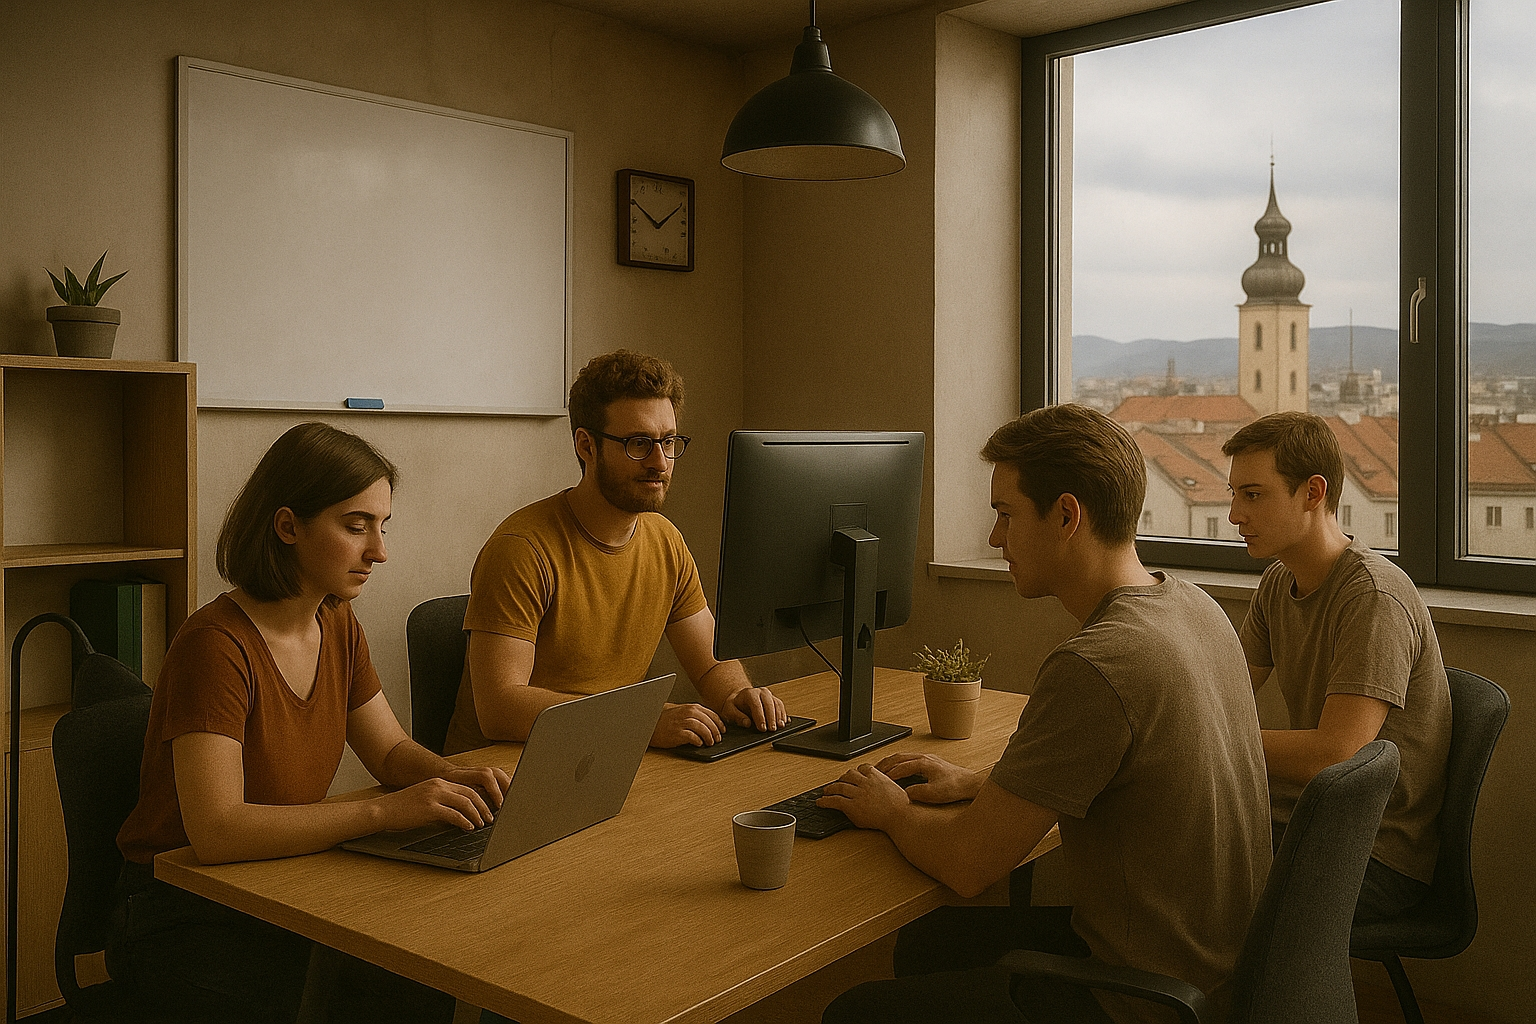
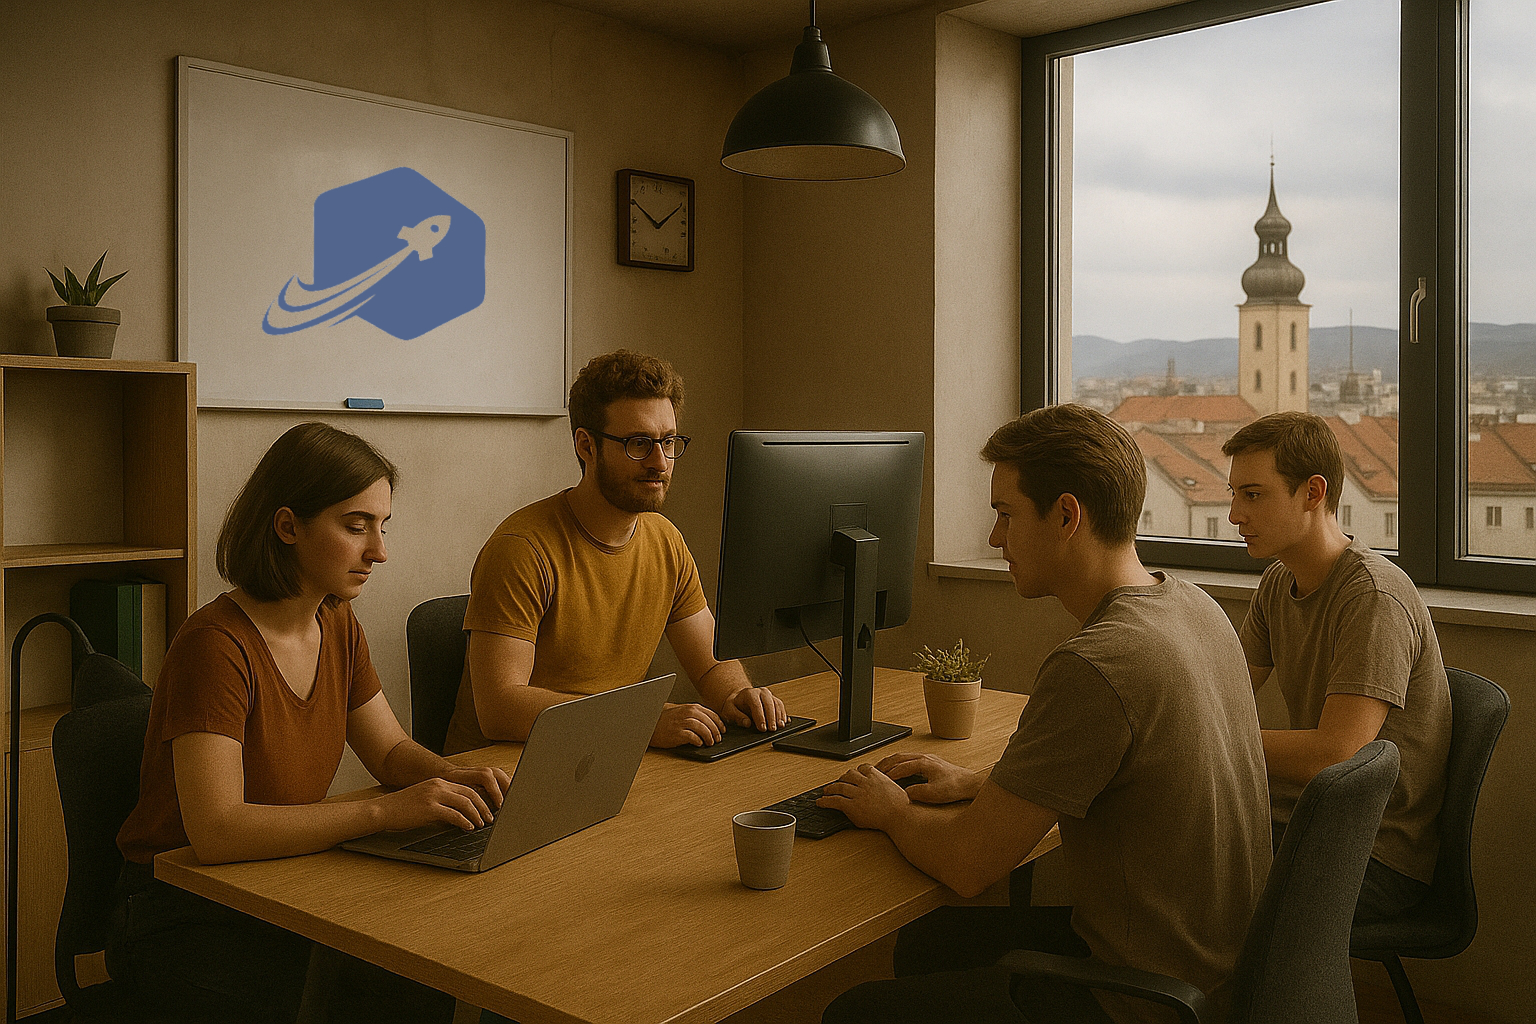
✏ Update content

Changed region(s): [[0.1562, 0.1562, 0.3438, 0.3438]]

diff --git a/apps/v2/src/content/work-experience/workExperience.tsx b/apps/v2/src/content/work-experience/workExperience.tsx
@@ -163,7 +163,7 @@ const deck = [
 			</RealisticButton>
 		],
 		texture: stormTexture,
-		image: "/images/saas-development.jpeg",
+		image: "/images/storywise.jpeg",
 		badges: [
 			{ description: "React", icon: ReactIcon },
 			{ description: "Tailwind CSS", icon: TailwindCssIcon },
@@ -174,7 +174,8 @@ const deck = [
 	{
 		id: 9,
 		wip: false,
-		title: "Chax",
+		headingSize: "small",
+		title: "Chax.at | Midlight GmbH",
 		description: ["Senior Frontend Engineer", "Graz, Austria", "2025 - Now"],
 		texture: stormTexture,
 		image: "/images/chax-offices.jpeg",

diff --git a/apps/v2/src/content/about-me/aboutMe.tsx b/apps/v2/src/content/about-me/aboutMe.tsx
@@ -20,7 +20,8 @@ const deck = [
 	{
 		id: 9,
 		wip: false,
-		title: "Storywise",
+		headingSize: "small",
+		title: "Chax.at | Midlight GmbH",
 		description: ["Senior Frontend Engineer", "Graz, Austria", "2025 - Now"],
 		texture: stormTexture,
 		badges: [],
